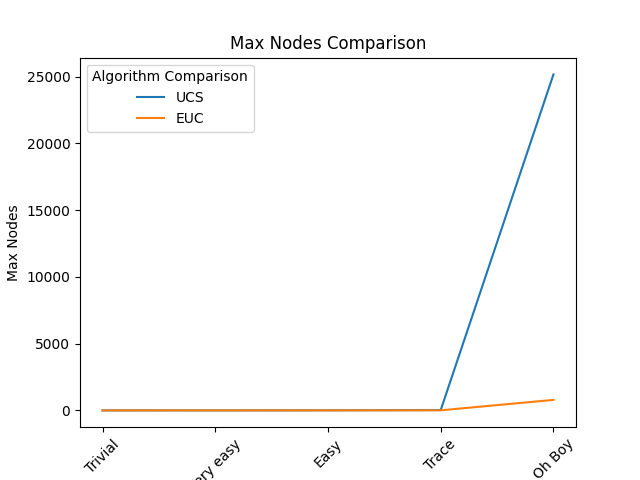
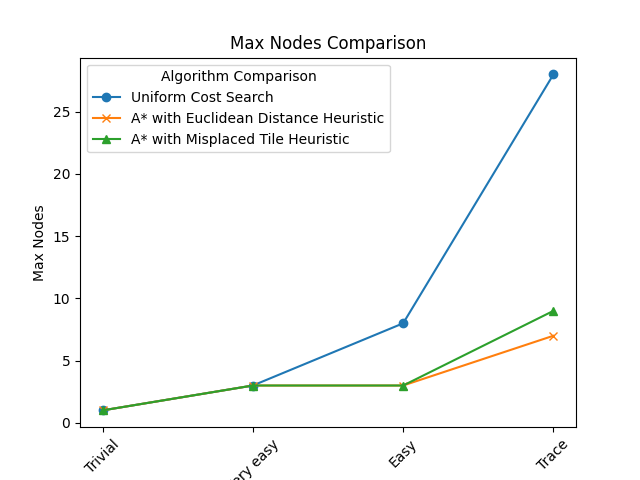
added misplace to main.py and made more generic

diff --git a/Problem.py b/Problem.py
@@ -28,11 +28,12 @@ class Problem:
     
     def euclidean(self, node):
         dist = 0
+        side_len = len(node.state) #if its a 8 puzzle, 15 puzzle, 24 puzzle, etc.
         for i in range(len(node.state)):
             for j in range(len(node.state[0])):
-                expected = [(node.state[i][j]-1)//3,(node.state[i][j]-1)%3]
+                expected = [(node.state[i][j]-1)//side_len,(node.state[i][j]-1)%side_len]
                 if(expected[0] == -1):
-                    expected = [2,2]
+                    expected = [side_len - 1, side_len - 1]
                 actual = [i,j]
                 squared_diff = [(actual[0]-expected[0]) ** 2, (actual[1]-expected[1]) ** 2]
                 dist += sum(squared_diff)**0.5
@@ -44,7 +45,7 @@ class Problem:
         for i in range(len(node.state)):
             for j in range(len(node.state)):
                 if(node.state[i][j]!=0):
-                    if(node.state[i][j] != goalState[i][j]):
+                    if(node.state[i][j] != self.goalState[i][j]):
                         count+=1
         return count
     
@@ -70,7 +71,7 @@ class Problem:
                 print("\nThe best state to expand with g(n) = "
                     + str(int(currnode.depth))
                     + " and h(n) = " 
-                    + str(int(currnode.heuristic))
+                    + str(ceil(currnode.heuristic))
                     + " is...")
                 currnode.printState()
 
@@ -104,18 +105,3 @@ class Problem:
             a.printState()
         
         return
-    
-# initalState = [[1,2,3], [4,5,6], [7,8,0]] #trivial
-# # # initalState = [[1,2,3], [4,5,6], [7,0,8]] #very easy
-# # # initalState = [[1,2,0], [4,5,3], [7,8,6]] #easy
-# # # initalState = [[0,1,2], [4,5,3], [7,8,6]] #doable
-# # # initalState = [[1,2,3], [4,8,0], [7,6,5]] #trace
-# # initalState = [[8,7,1], [6, 0, 2], [5,4,3]] #oh boy
-# # # initalState = [[1,2,3], [4,5,6], [8,7,0]] #impossible
-# goalState = [[1,2,3], [4,5,6], [7,8,0]]
-
-# # # alg = Problem(initalState, goalState, "Misplaced", False)
-# # alg = Problem(initalState, goalState, "Euclidean", False)
-# alg = Problem(initalState, goalState, False)
-# alg.search()
-# print("Hello")

diff --git a/main.py b/main.py
@@ -2,13 +2,12 @@
 from Problem import Problem
 
 def main():
-    val = input("Type \"1\" to enter your own puzzle, otherwise press any key to escape:")
-    print(val)
+    val = input("Type \"1\" to enter your own puzzle, otherwise press any key to escape: ")
     if val == "1":
         print("Enter your puzzle, use a zero to represent the blank")
-        row1 = input("Enter the first row, use space or tabs between numbers:")
-        row2 = input("Enter the second row, use space or tabs between numbers:")
-        row3 = input("Enter the third row, use space or tabs between numbers:")
+        row1 = input("Enter the first row, use space between numbers:")
+        row2 = input("Enter the second row, use space between numbers:")
+        row3 = input("Enter the third row, use space between numbers:")
 
         row1 = row1.split(" ")
         row2 = row2.split(" ")
@@ -30,21 +29,23 @@ def main():
         print("2 - A* with the Misplaced Tile heuristic")
         print("3 - A* with the Euclidean distance heuristic")
         algo_choice = input()
-        print(algo_choice)
+
+        verbose = input("Would you like to see a trace of the algorithm (yes or no)? ")
+        trace = (verbose == "yes")
 
         if algo_choice == "1":
             algo = Problem(custom_puzzle,goalState)
             algo.search()
         elif algo_choice == "2":
-            print("in here 2")
+            algo = Problem(custom_puzzle, goalState, "Misplaced", trace)
+            algo.search()
         elif algo_choice == "3":
-            algo = Problem(custom_puzzle,goalState,"Euclidean",False)
+            algo = Problem(custom_puzzle, goalState, "Euclidean", trace)
             algo.search()
 
 
     else:
         print("end of program")
-    pass
 
 
 if __name__ == "__main__":

diff --git a/graph.py b/graph.py
@@ -9,9 +9,9 @@ ohboy = [[8,7,1], [6, 0, 2], [5,4,3]]
 imp = [[1,2,3], [4,5,6], [8,7,0]]
 goalState = [[1,2,3], [4,5,6], [7,8,0]]
 
-names = ["Trivial","Very easy", "Easy", "Trace", "Oh Boy"]
+names = ["Trivial","Very easy", "Easy", "Trace", "Oh boy"]
 
-l = [trivial, veasy, easy, trace, ohboy]
+l = [trivial, veasy, easy, trace]
 
 maxNodesUCS = []
 exploredSetUCS = []
@@ -48,12 +48,29 @@ for i in l:
     print("Doing Misplaced", names[j])
     alg = Problem(i, goalState, "Misplaced", False)
     vals = alg.search()
-    maxNodesEuc.append(vals[1])
-    exploredSetEuc.append(vals[2])
+    maxNodesMisplaced.append(vals[1])
+    exploredSetMisplaced.append(vals[2])
     j += 1
 
 
+print("Uniform Cost")
+print(maxNodesUCS)
+print(exploredSetUCS)
+print()
+print()
+print("A* Manhattan Heuristic")
+print(maxNodesMisplaced)
+print(exploredSetMisplaced)
+print()
+print()
+print("A* Euclidean Heuristic")
+print(maxNodesEuc)
+print(exploredSetEuc)
+print()
+print()
+
 # Plotting maxNodes
+plt.figsize((10, 15))
 # for i in range(len(names)):
 #     plt.plot(names[i], maxNodesUCS[i], label=f"{names[i]} (UCS)", marker='o')
 plt.plot(names, maxNodesUCS, label = "Uniform Cost Search", marker = 'o')
